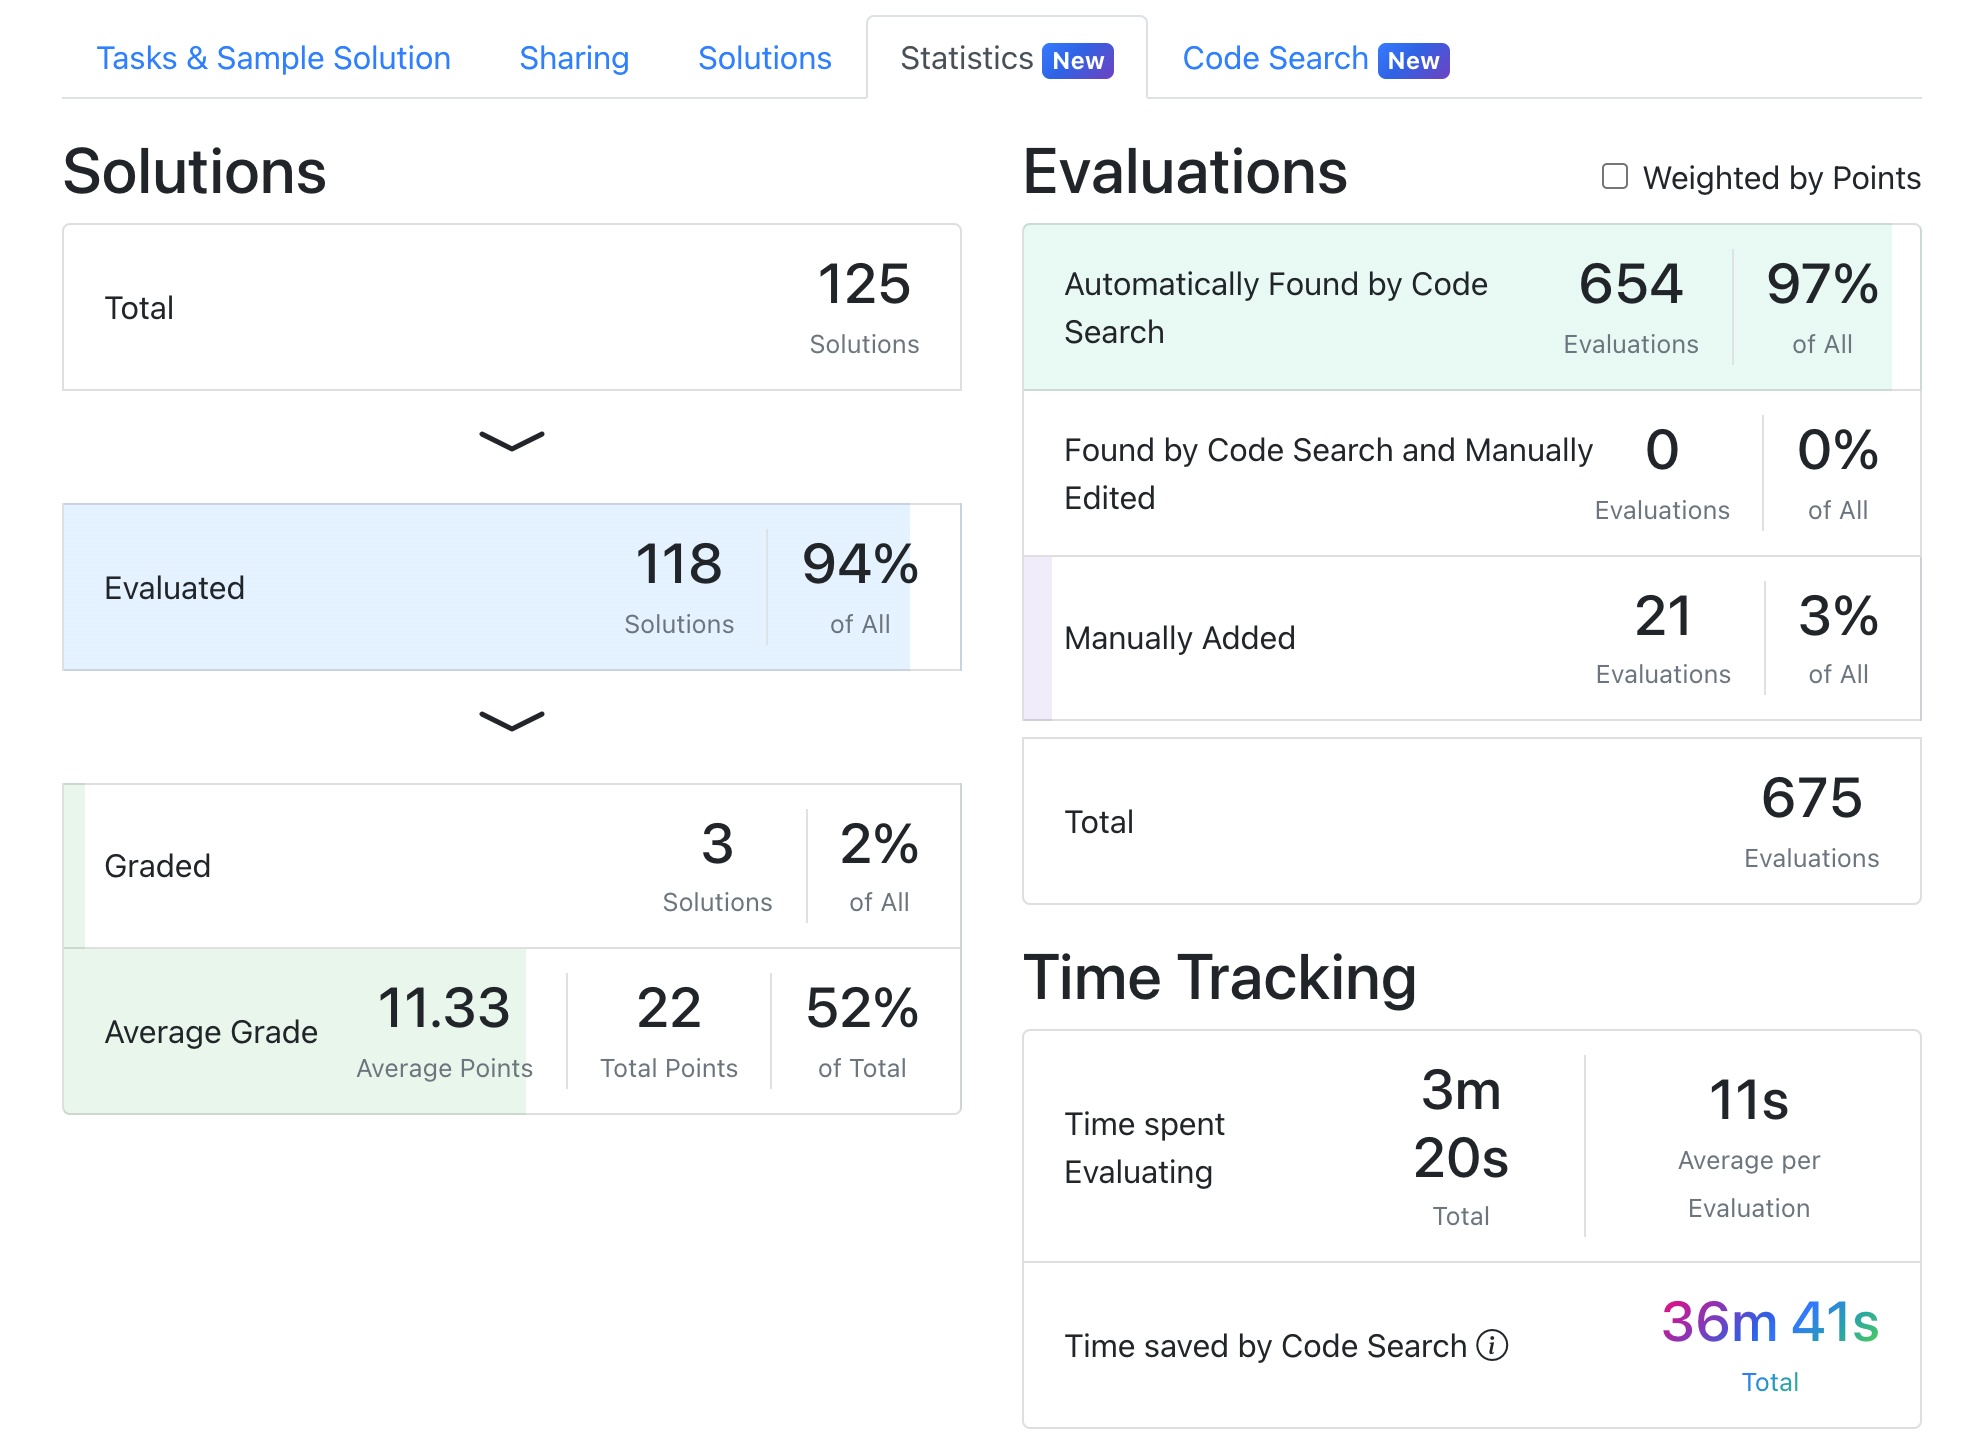
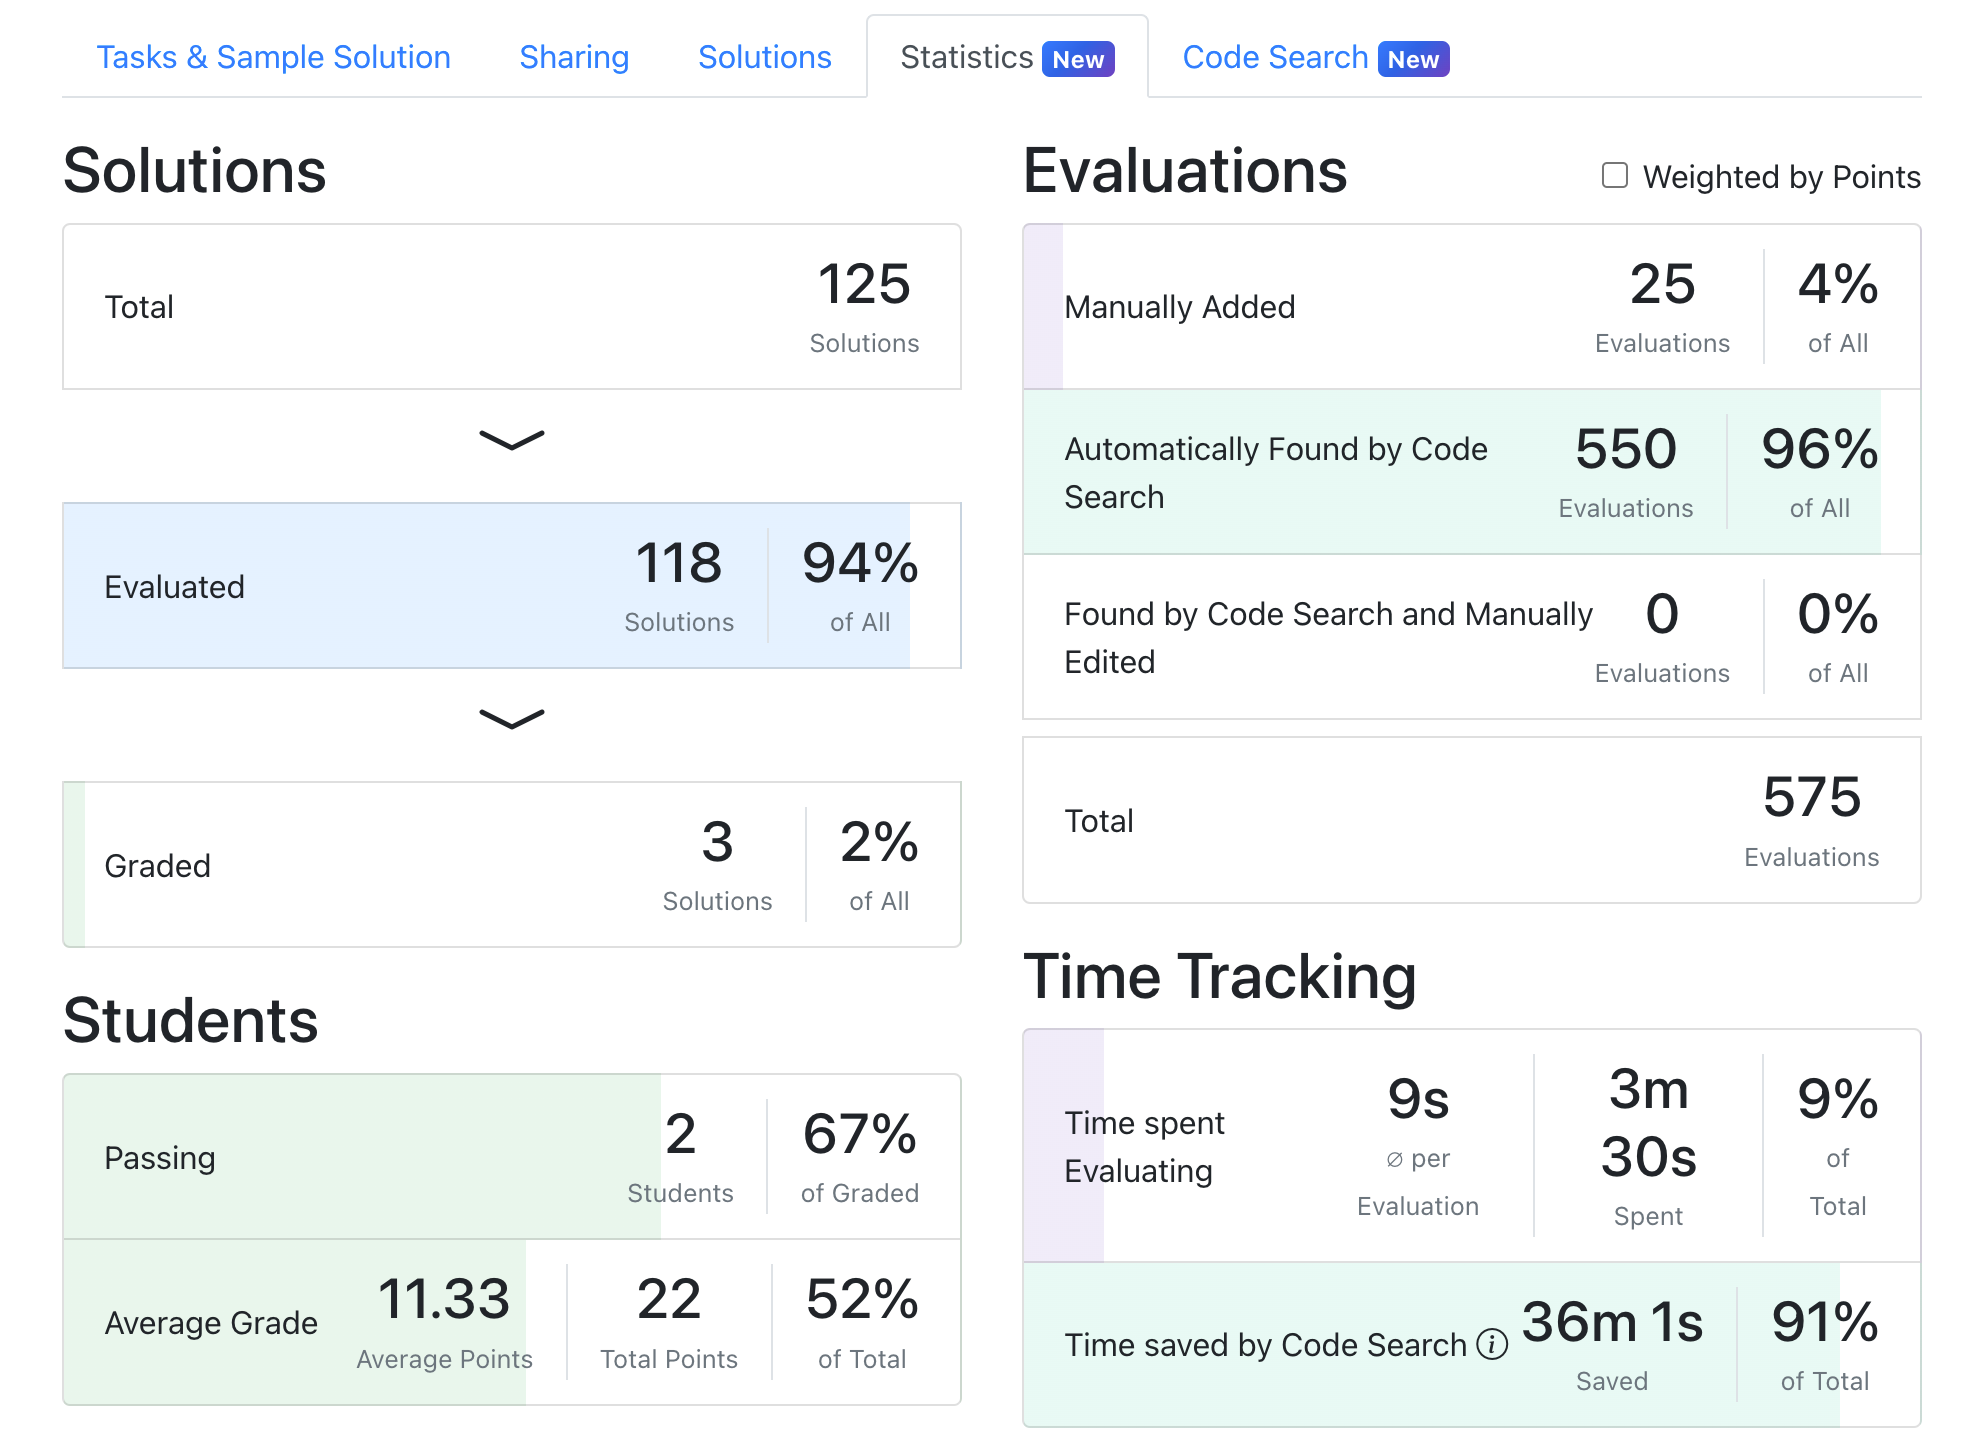
feat: New statistics screenshots and better descriptions

diff --git a/src/chapter/3-implementation.tex b/src/chapter/3-implementation.tex
@@ -366,24 +366,26 @@ Die Seite gliedert sich in drei Abschnitte, \textbf{Solutions}, \textbf{Evaluati
     \label{fig:assignment-statistics-basics}
 \end{figure}
 
-Unter Solutions ist jeweils die Anzahl der Abgaben insgesamt (\textbf{Total}), mit angefangener Bewertung (\textbf{Evaluated}) und mit versendeten Feedback abgeschlossenen (\textbf{Graded}) sichtbar.
-Zudem wird die durchschnittlich erreichte Punktzahl der abgeschlossenen Abgaben angezeigt\footnote{
+Unter Solutions ist jeweils die Anzahl der Abgaben insgesamt (\textbf{Total}), mit angefangener Bewertung (\textbf{Evaluated}) und abgeschlossenen mit versendetem Feedback (\textbf{Graded}) sichtbar.
+Zudem wird die durchschnittlich erreichte Punktzahl der abgeschlossenen Abgaben sowie die Anzahl der bestehenden Studierenden angezeigt\footnote{
     Es handelt sich bei diesem und folgenden Screenshots der Statistik nicht um die realen Zahlen der Hausaufgabe 3.
 }.
 
 Die Evaluations\footnote{
     Bewertungen von Teilaufgaben.
 } werden für die Auswertung in drei Kategorien unterteilt.
-Händisch hinzugefügte Bewertungen sind genau diejenigen, die wie in Abschnitt~\ref{subsec:grading} beschrieben erstellt wurden.
-Von Code Search gefundene Bewertungen können anhand der vorherigen erstellt werden und geben Aufschluss darüber, wie effektiv das Werkzeug für die vorliegende Hausaufgabe war.
-In seltenen Fällen ist es notwendig, diese automatisch erstellten Bewertungen händisch anzupassen, wenn beispielsweise eine Suche zu ungeeigneten Ergebnisse geführt hat.
+Händisch hinzugefügte Bewertungen (\textbf{Manually Added}) sind genau diejenigen, die wie in Abschnitt~\ref{subsec:grading} beschrieben erstellt wurden.
+Von \textbf{Code Search} gefundene Bewertungen können anhand der vorherigen erstellt werden und geben Aufschluss darüber, wie effektiv das Werkzeug für die vorliegende Hausaufgabe war.
+In seltenen Fällen ist es notwendig, diese automatisch erstellten Bewertungen händisch anzupassen (\textbf{Edited}), wenn beispielsweise eine Suche zu ungeeigneten Ergebnisse geführt hat.
 Diese Fehlerfälle sowie die sich ergebenden relativen Anteile der Kategorien werden in Kapitel~\ref{ch:evaluation} näher erläutert und diskutiert.
+Die Gesamtanzahl der Bewertungen (\textbf{Total}) als Summe der drei Kategorien erlaubt die Berechnung prozentualer Anteile.
 
 Der Abschnitt Time Tracking dient der Berechnung der Effizienz von Bewertenden und Code Search.
-Anhand der Zeitmessung, die während der Bewertung von Teilaufgaben stattfindet, können hier eine Gesamtdauer und der Durchschnitt pro Teilaufgabe berechnet werden.
-Weiterhin wird hier angezeigt, wie viel Zeit durch die Verwendung von Code Search eingespart werden konnte.
-Die Berechnung dieses Werts erfordert die Betrachtung der Teilaufgaben und wird in Kürze erläutert.
+Anhand der Zeitmessung, die während der Bewertung von Teilaufgaben stattfindet, können hier eine Gesamtdauer (\textbf{Time Spent}) und der Durchschnitt (\textbf{\O}) pro Teilaufgabe berechnet werden.
+Weiterhin wird hier angezeigt, wie viel Zeit durch die Verwendung von Code Search eingespart (\textbf{Time Saved}) werden konnte.
+Die Berechnung dieses Werts erfordert die Betrachtung der Teilaufgaben und wird in Kürze anhand der Teilaufgaben-Statistiken erläutert.
 Kapitel~\ref{ch:evaluation} wird diesen Messwert anhand einiger realer Beispiele verwenden, um die Effizienz von Code Search zu bestimmen.
+Die Summe von händischer Bewertungsdauer und mit Code Search gesparter Zeit wird für die Anzeige von Prozentangaben zwar berechnet, aber nicht dargestellt, da diese Dauer zweifelhaften Nutzen bietet.
 
 \begin{figure}
     \centering
@@ -420,8 +422,8 @@ Dafür werden jeweils kurze Stichpunkte zu jedem Wert genannt, um Hinweise auf d
         Die Effektivität kann nie 100\% betragen, da Code Search nur ausgehend von einer händischen Bewertung aktiviert wird.
         Beim Löschen von dieser werden auch davon abstammende Code Search-Bewertungen gelöscht.
     }
-    \item[Average Evaluation Item] ist die durchschnittliche Bewertungsdauer der Teilaufgabe.
-    Diese wird gemessen, während das Bewertungs-Modalfenster geöffnet ist.
+    \item[Average Evaluation Time] ist die durchschnittliche Bewertungsdauer der Teilaufgabe.
+    Sie wird gemessen, während das Bewertungs-Modalfenster geöffnet ist.
     Das verlängertes Öffnen dieses Fensters, beispielsweise beim Verlassen des Arbeitsplatzes oder beim Einlegen einer Pause, kann die Statistik verfälschen.
     Um dies zu vermeiden, werden Ausreißer länger als 60 Sekunden nicht im Durchschnitt verrechnet.
     \item[Code Search Time Savings] bezeichnet die geschätzte Zeit, die durch Code Search bei der Bewertung dieser Teilaufgabe eingespart wurde.
